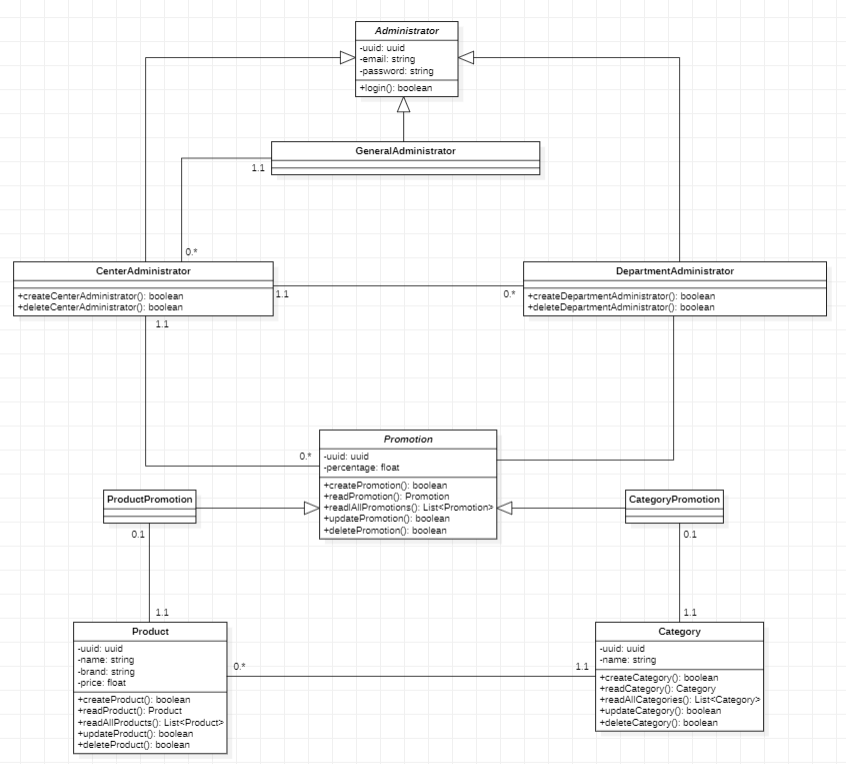
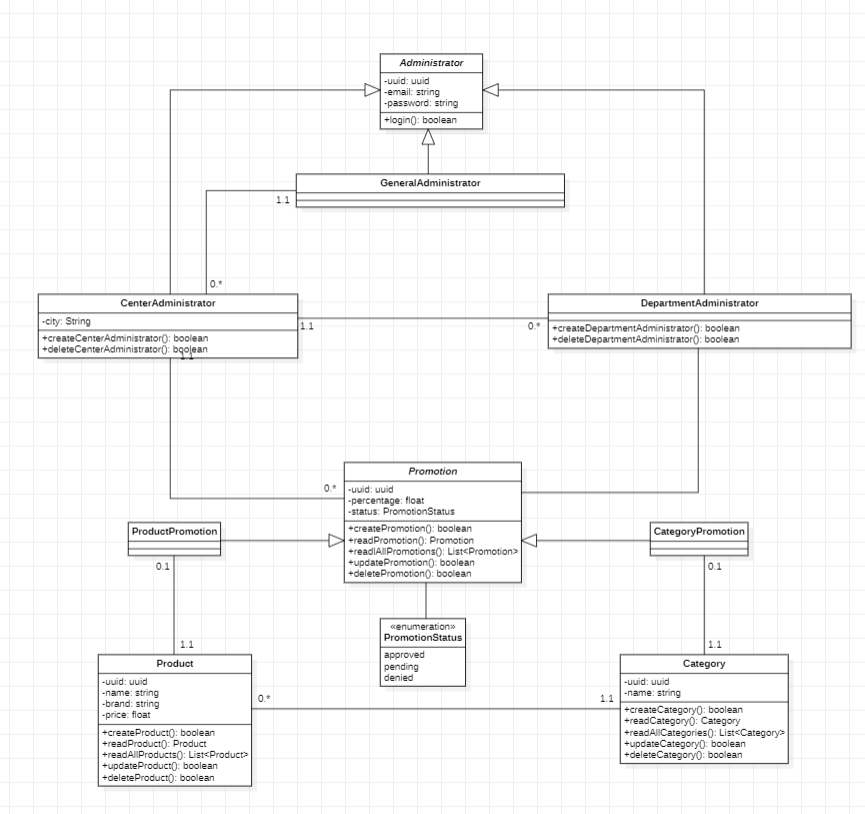
added city attribute to center_administrator entity + promotion enum

Changed region(s): [[0.0, 0.0301, 1.0, 0.9634], [0.0922, 0.7827, 0.3381, 0.9935], [0.4303, 0.7526, 0.5532, 0.873]]

diff --git a/MarjanAPI/src/main/java/com/youcode/marjanapi/models/Promotion.java b/MarjanAPI/src/main/java/com/youcode/marjanapi/models/Promotion.java
@@ -1,5 +1,6 @@
 package com.youcode.marjanapi.models;
 
+import com.youcode.marjanapi.enums.PromotionStatus;
 import jakarta.persistence.*;
 import lombok.Data;
 import lombok.NoArgsConstructor;
@@ -14,4 +15,6 @@ public abstract class Promotion {
     @GeneratedValue(strategy = GenerationType.AUTO)
     private UUID uuid;
     private float percentage;
+    @Enumerated(EnumType.STRING)
+    private PromotionStatus status;
 }

diff --git a/MarjanAPI/src/main/java/com/youcode/marjanapi/models/CenterAdministrator.java b/MarjanAPI/src/main/java/com/youcode/marjanapi/models/CenterAdministrator.java
@@ -2,8 +2,16 @@ package com.youcode.marjanapi.models;
 
 import jakarta.persistence.Entity;
 import jakarta.persistence.Table;
+import lombok.Data;
+import lombok.Getter;
+import lombok.NoArgsConstructor;
+import lombok.Setter;
 
 @Entity
 @Table(name = "center_administrator")
+@NoArgsConstructor
+@Getter
+@Setter
 public class CenterAdministrator extends Administrator{
+    private String city;
 }

diff --git a/MarjanAPI/src/main/java/com/youcode/marjanapi/controllers/CategoryPromotionController.java b/MarjanAPI/src/main/java/com/youcode/marjanapi/controllers/CategoryPromotionController.java
@@ -25,6 +25,6 @@ public class CategoryPromotionController {
 
     @PostMapping
     public String create(@RequestBody CategoryPromotionDto requestCategoryPromotion) {
-        
+        return "not implemented yet";
     }
 }

diff --git a/MarjanAPI/src/main/java/com/youcode/marjanapi/enums/PromotionStatus.java b/MarjanAPI/src/main/java/com/youcode/marjanapi/enums/PromotionStatus.java
@@ -1,0 +1,7 @@
+package com.youcode.marjanapi.enums;
+
+public enum PromotionStatus {
+    approved,
+    denied,
+    pending
+}
